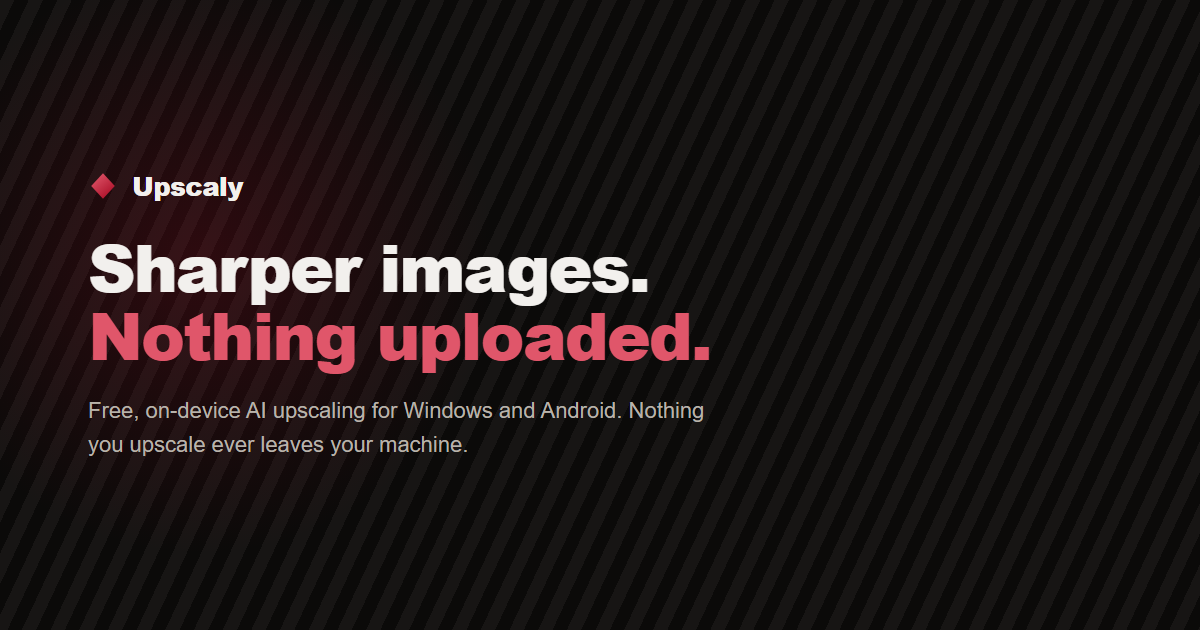
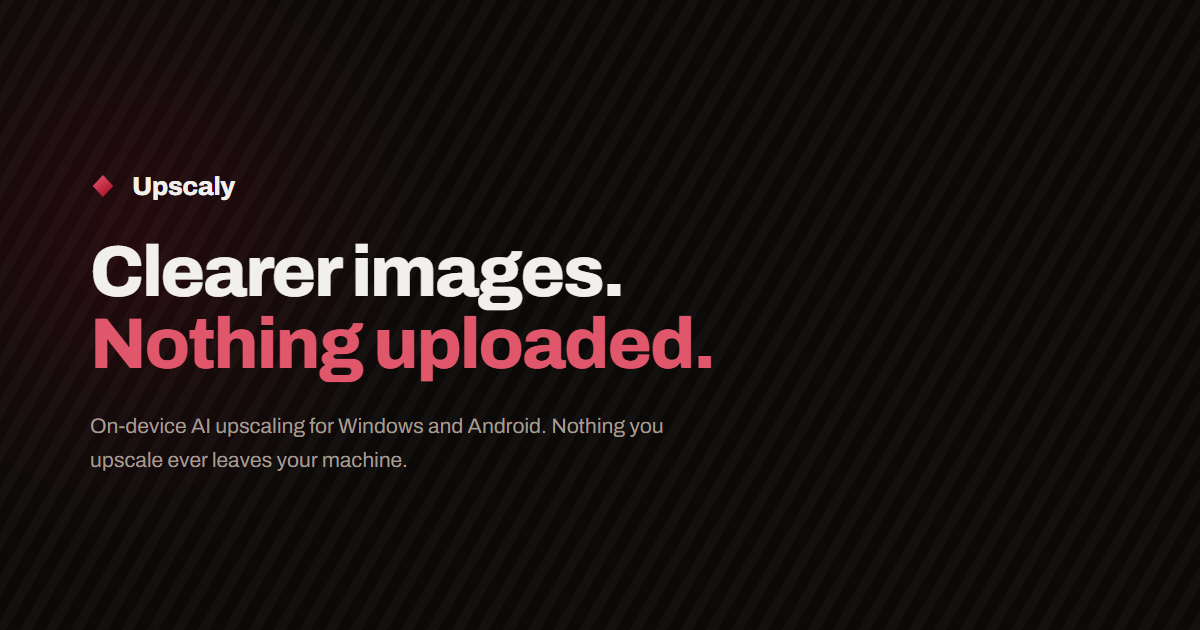
Windows 2.0.1 is live on the Microsoft Store
- Show v2.0.1 on the home page and in the structured data, with the
  Store's product name "Upscaly: Photo & Video Enhancer".
- Windows card: say what 2.0 adds (pausable queue, side-by-side model
  comparison, protect-text brush).
- Privacy box: replace the "no crash reporting in either app" claim with
  wording that matches the privacy policy (optional, never includes photos,
  off by default on Windows).
- Headline and share image: "Clearer images" instead of "Sharper images";
  the share image no longer calls the Windows app free.

Changed region(s): [[0.0617, 0.3921, 0.6167, 0.6032], [0.0617, 0.6333, 0.5858, 0.754], [0.0925, 0.2714, 0.2158, 0.3317]]

diff --git a/index.html b/index.html
@@ -19,7 +19,7 @@
 <meta property="og:image" content="https://upscaly.shayxo.dev/assets/og-image.png">
 <meta property="og:image:width" content="1200">
 <meta property="og:image:height" content="630">
-<meta property="og:image:alt" content="Upscaly — sharper images, nothing uploaded">
+<meta property="og:image:alt" content="Upscaly — clearer images, nothing uploaded">
 <meta name="twitter:card" content="summary_large_image">
 <meta name="twitter:title" content="Upscaly — AI upscaling that never leaves your device">
 <meta name="twitter:description" content="Offline AI image and video upscaling powered directly by your GPU. Nothing you upscale is ever uploaded.">
@@ -37,12 +37,12 @@
     },
     {
       "@type": "SoftwareApplication",
-      "name": "Upscaly: AI Photo Enhancer",
+      "name": "Upscaly: Photo & Video Enhancer",
       "operatingSystem": "Windows 10, Windows 11",
       "applicationCategory": "MultimediaApplication",
       "url": "https://upscaly.shayxo.dev/",
       "downloadUrl": "https://apps.microsoft.com/detail/9NFFHP49BVDT",
-      "softwareVersion": "1.1.0",
+      "softwareVersion": "2.0.1",
       "description": "Offline AI image and video upscaling that runs on your own GPU. No account, no cloud, no per-image cost.",
       "offers": {
         "@type": "Offer",
@@ -142,7 +142,7 @@
       <div>
         <div class="eyebrow">On-device AI upscaling</div>
         <h1 class="mt-5 text-[clamp(2.3rem,5.4vw,3.7rem)] font-extrabold leading-[1.0]">
-          Sharper images.<br>
+          Clearer images.<br>
           <span class="text-crimson-lift">Nothing uploaded.</span>
         </h1>
         <p class="mt-6 max-w-[46ch] text-[17px] leading-relaxed text-muted">
@@ -166,7 +166,7 @@
         </div>
 
         <p class="mono mt-5 text-[9.5px] text-faint">
-          7-day free trial · v1.1.0 · Windows 10/11 x64
+          7-day free trial · v2.0.1 · Windows 10/11 x64
         </p>
       </div>
 
@@ -268,12 +268,14 @@
             <div class="eyebrow">Desktop</div>
             <h3 class="mt-2.5 text-[22px] font-bold">Upscaly for Windows</h3>
           </div>
-          <span class="mono shrink-0 rounded-full border border-line px-3 py-1.5 text-[9px] text-muted">v1.1.0</span>
+          <span class="mono shrink-0 rounded-full border border-line px-3 py-1.5 text-[9px] text-muted">v2.0.1</span>
         </div>
 
         <p class="mt-5 text-[15px] leading-relaxed text-muted">
           The full desktop app for Windows. Handles both images and video, batches
           entire folders, and gives you direct control over models, scale and tiling.
+          Version 2.0 adds a queue you can pause, side-by-side model comparison and
+          a brush that keeps text and logos untouched.
         </p>
 
         <ul class="mono mt-6 space-y-2.5 text-[9.5px] text-faint">
@@ -352,8 +354,8 @@
             <p class="mt-2.5 text-[14px] leading-relaxed text-muted">No sign-up, no login, no email. Install it and it works.</p>
           </div>
           <div class="bg-ink-raised p-6">
-            <div class="mono text-[9px] text-crimson-lift">No analytics</div>
-            <p class="mt-2.5 text-[14px] leading-relaxed text-muted">No telemetry or crash-reporting SDK anywhere in either app.</p>
+            <div class="mono text-[9px] text-crimson-lift">Reports are your call</div>
+            <p class="mt-2.5 text-[14px] leading-relaxed text-muted">Crash reports never include your photos and can be switched off in Settings. On Windows they're off unless you turn them on.</p>
           </div>
           <div class="bg-ink-raised p-6">
             <div class="mono text-[9px] text-crimson-lift">No uploads</div>
